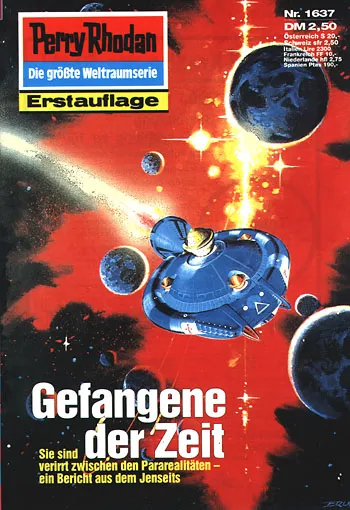
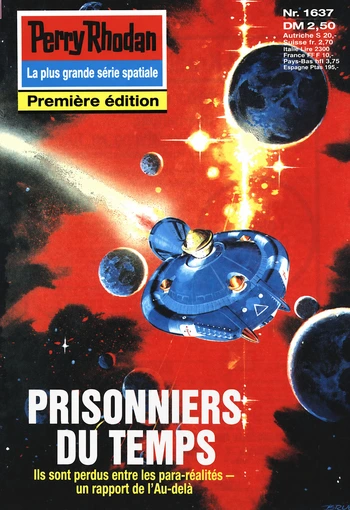
feat: add French covers 1633-1642

diff --git a/src/content/chapitres/de-1635.md b/src/content/chapitres/de-1635.md
@@ -5,7 +5,7 @@ cycleNumber: 23
 chapterNumber: 1635
 type: translation
 originalTitle: "Schach der Blauen Schlange"
-cover: "/images/covers/de-1635.webp"
+cover: "/images/covers/de-1635.webp?v=20260828-1642"
 auteur: "Robert Feldhoff"
 parution: "1992-12-24"
 statut: wip

diff --git a/src/content/chapitres/de-1633.md b/src/content/chapitres/de-1633.md
@@ -5,7 +5,7 @@ cycleNumber: 23
 chapterNumber: 1633
 type: translation
 originalTitle: "Eine Falle für die MAGENTA"
-cover: "/images/covers/de-1633.webp"
+cover: "/images/covers/de-1633.webp?v=20260828-1642"
 auteur: "Arndt Ellmer"
 parution: "1992-12-10"
 statut: wip

diff --git a/src/content/chapitres/de-1634.md b/src/content/chapitres/de-1634.md
@@ -5,7 +5,7 @@ cycleNumber: 23
 chapterNumber: 1634
 type: translation
 originalTitle: "Das Schwert der Akonen"
-cover: "/images/covers/de-1634.webp"
+cover: "/images/covers/de-1634.webp?v=20260828-1642"
 auteur: "H. G. Francis"
 parution: "1992-12-17"
 statut: wip

diff --git a/src/content/chapitres/de-1642.md b/src/content/chapitres/de-1642.md
@@ -5,7 +5,7 @@ cycleNumber: 23
 chapterNumber: 1642
 type: translation
 originalTitle: "Der Planet der Ennox"
-cover: "/images/covers/de-1642.webp"
+cover: "/images/covers/de-1642.webp?v=20260828-1642"
 auteur: "Horst Hoffmann"
 parution: "1993-02-11"
 statut: wip

diff --git a/src/content/chapitres/de-1640.md b/src/content/chapitres/de-1640.md
@@ -5,7 +5,7 @@ cycleNumber: 23
 chapterNumber: 1640
 type: translation
 originalTitle: "Griff nach Arkon"
-cover: "/images/covers/de-1640.webp"
+cover: "/images/covers/de-1640.webp?v=20260828-1642"
 auteur: "H. G. Ewers"
 parution: "1993-01-28"
 statut: traduit

diff --git a/src/content/chapitres/de-1637.md b/src/content/chapitres/de-1637.md
@@ -5,7 +5,7 @@ cycleNumber: 23
 chapterNumber: 1637
 type: translation
 originalTitle: "Gefangene der Zeit"
-cover: "/images/covers/de-1637.webp"
+cover: "/images/covers/de-1637.webp?v=20260828-1642"
 auteur: "Peter Griese"
 parution: "1993-01-07"
 statut: wip

diff --git a/src/content/chapitres/de-1636.md b/src/content/chapitres/de-1636.md
@@ -5,7 +5,7 @@ cycleNumber: 23
 chapterNumber: 1636
 type: translation
 originalTitle: "Die letzte Etappe"
-cover: "/images/covers/de-1636.webp"
+cover: "/images/covers/de-1636.webp?v=20260828-1642"
 auteur: "Peter Griese"
 parution: "1992-12-01"
 statut: wip

diff --git a/src/content/chapitres/de-1639.md b/src/content/chapitres/de-1639.md
@@ -5,7 +5,7 @@ cycleNumber: 23
 chapterNumber: 1639
 type: translation
 originalTitle: "Signale aus NGC 6503"
-cover: "/images/covers/de-1639.webp"
+cover: "/images/covers/de-1639.webp?v=20260828-1642"
 auteur: "Kurt Mahr"
 parution: "1993-01-21"
 statut: wip

diff --git a/src/content/chapitres/de-1638.md b/src/content/chapitres/de-1638.md
@@ -5,7 +5,7 @@ cycleNumber: 23
 chapterNumber: 1638
 type: translation
 originalTitle: "In Sintas Bann"
-cover: "/images/covers/de-1638.webp"
+cover: "/images/covers/de-1638.webp?v=20260828-1642"
 auteur: "H. G. Francis"
 parution: "1993-01-14"
 statut: wip

diff --git a/src/content/chapitres/de-1641.md b/src/content/chapitres/de-1641.md
@@ -5,7 +5,7 @@ cycleNumber: 23
 chapterNumber: 1641
 type: translation
 originalTitle: "Symbiose"
-cover: "/images/covers/de-1641.webp"
+cover: "/images/covers/de-1641.webp?v=20260828-1642"
 auteur: "Horst Hoffmann"
 parution: "1993-02-04"
 statut: wip
